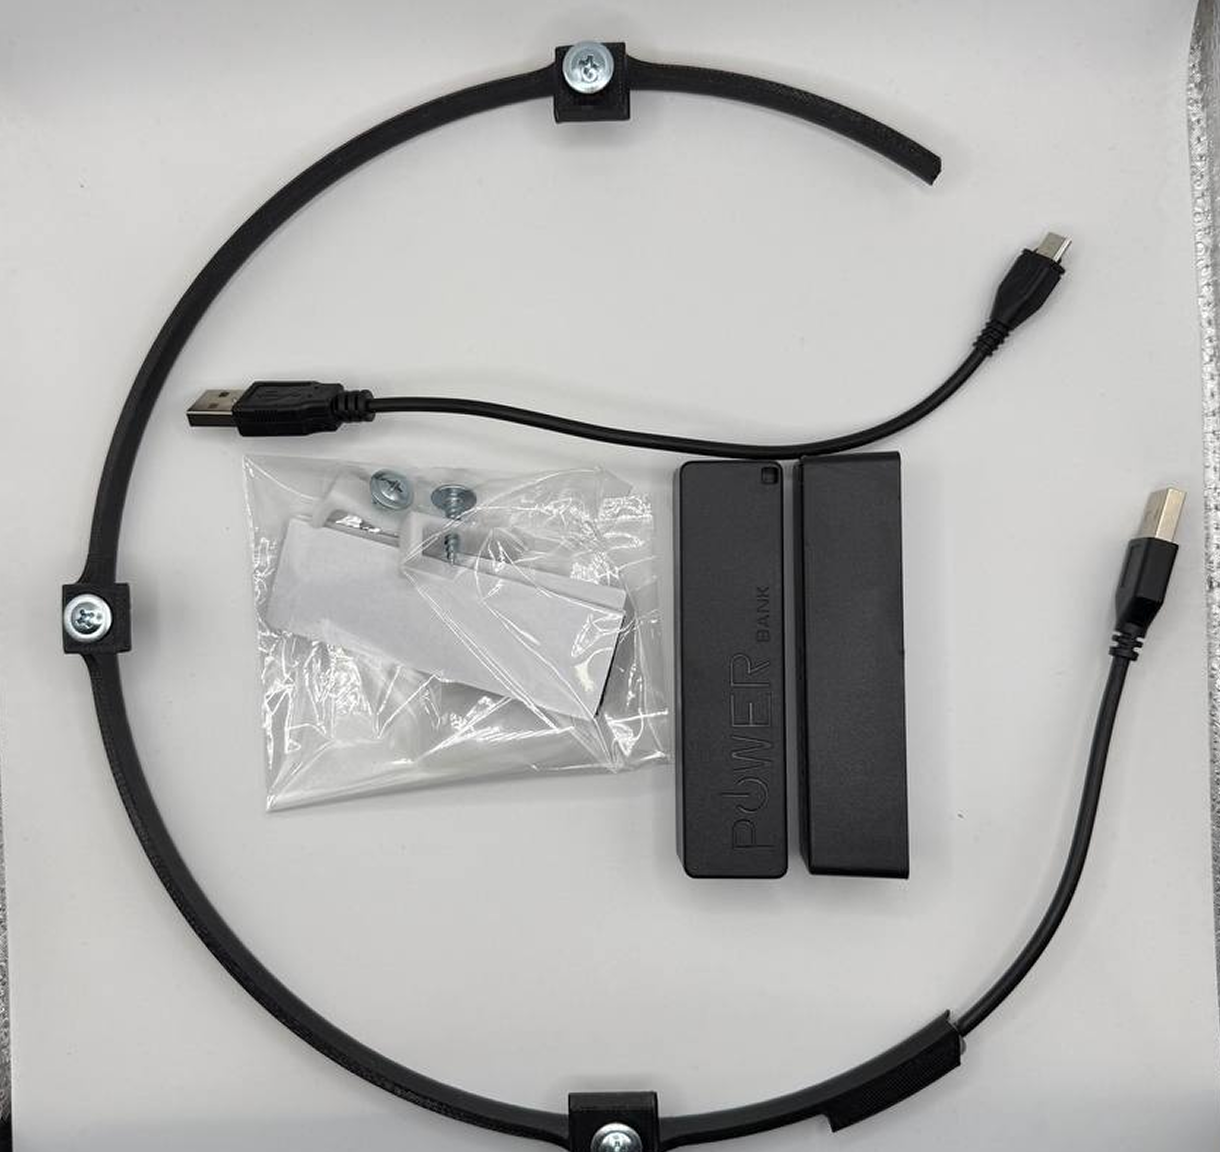
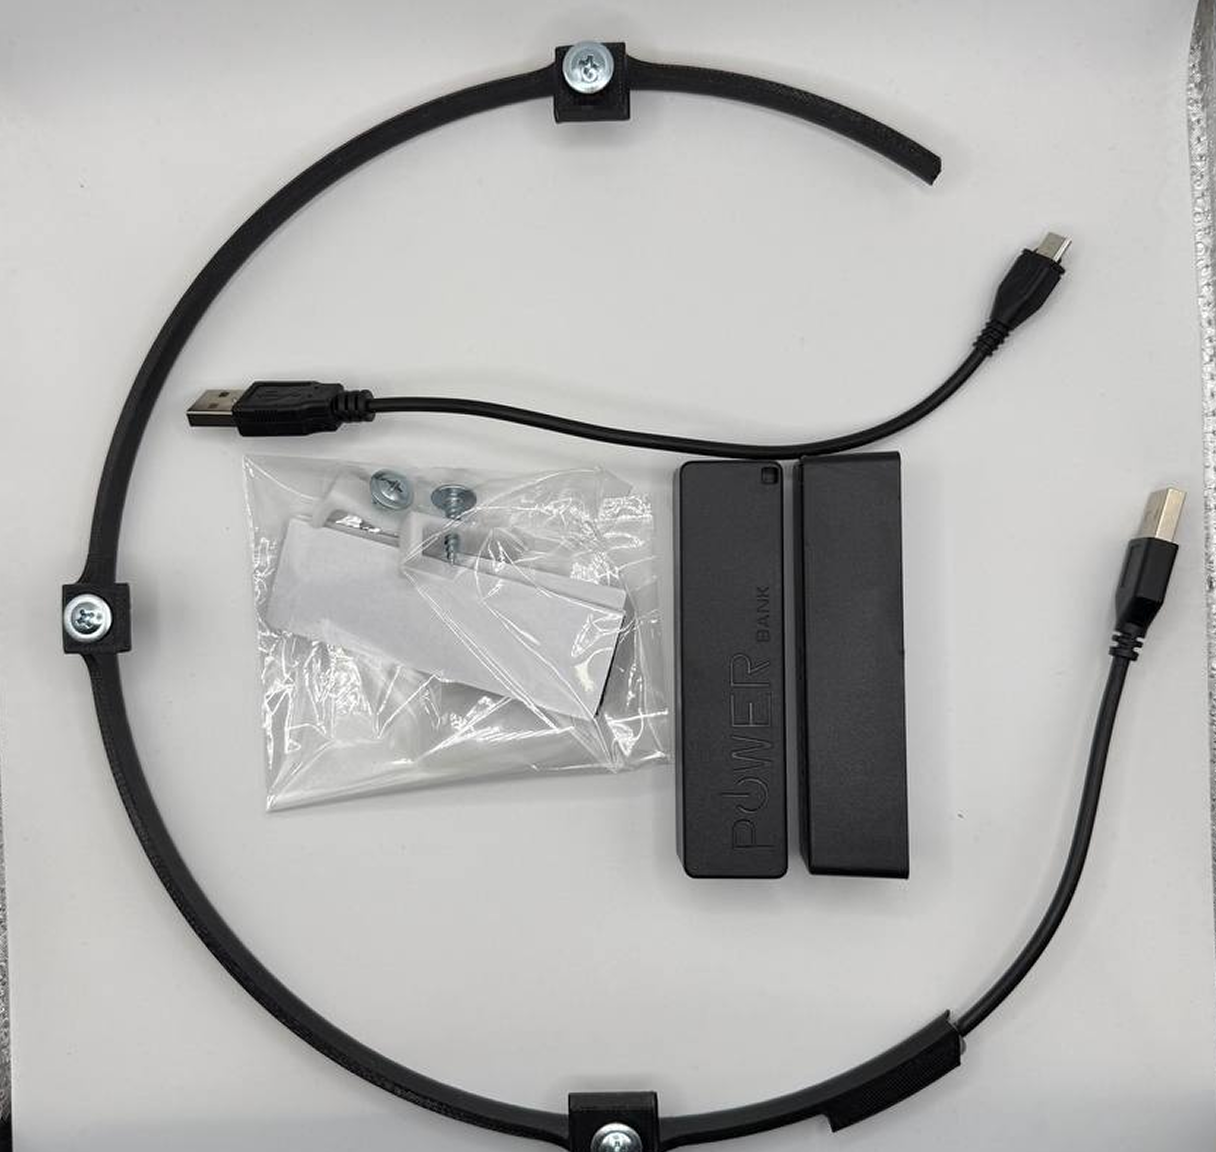
Ready main page

diff --git a/index.html b/index.html
@@ -14,7 +14,13 @@
 </head>
 
 <body>
-    <h1 class="catalog-header">katalog</h1>
+    <div class="header-box">
+        <a href="index.html" class="logo-link">
+            <img src="images/logo.png" alt="logo" class="logo-img">
+            <p class="logo-text">S-3dprints</p>
+        </a>
+        <h1 class="catalog-header">katalog</h1>
+    </div>
     <div class="divider"></div>
     <div class="category-box">
         <div class="category-item">
@@ -34,33 +40,33 @@
         </div>
 
         <div>
-            <button class="button-main-products">
-                <img src="images/trapezoidal-pad-for-sanding.png" alt="Pad trapezowy do szlifowania gładzi" class="img-main-products">
-                <h2 class="text-main-products">
-                    <span class="product-title"> Pad trapezowy do szlifowania gładzi </span>
-                    <span class="text-main-products-price">50 zl</span>
-                </h2>
-            </button>
-        </div>
-
-        <div>
-            <button class="button-main-products">
+            <a href="/products-pages/set-of-pads-for-sanding.html" class="button-main-products">
                 <img src="images/set-of-pads-for-sanding.png" alt="Zestaw padów dla szlifowania gładzi" class="img-main-products">
                 <h2 class="text-main-products">
                     <span class="product-title">Zestaw padów dla szlifowania gładzi</span>
                     <span class="text-main-products-price">95 zl</span>
                 </h2>
-            </button>
+            </a>
         </div>
 
         <div>
-            <button class="button-main-products">
+            <a href="/products-pages/trapezoidal-pad-for-sanding.html" class="button-main-products">
+                <img src="images/trapezoidal-pad-for-sanding.png" alt="Pad trapezowy do szlifowania gładzi" class="img-main-products">
+                <h2 class="text-main-products">
+                    <span class="product-title"> Pad trapezowy do szlifowania gładzi </span>
+                    <span class="text-main-products-price">50 zl</span>
+                </h2>
+            </a>
+        </div>
+
+        <div>
+            <a href="/products-pages/smoothing-sanding-pad.html" class="button-main-products">
                 <img src="images/smoothing-sanding-pad.png" alt="Zestaw padów dla szlifowania gładzi" class="img-main-products">
                 <h2 class="text-main-products">
                     <span class="product-title">Pad do szlifowania gładzi (półksiężyc )</span>
                     <span class="text-main-products-price">40 zl</span>
                 </h2>
-            </button>
+            </a>
         </div>
     </div>
 
@@ -86,33 +92,33 @@
         </div>
 
         <div>
-            <button class="button-main-products">
+            <a href="/products-pages/tile-beveling-holder.html" class="button-main-products">
                 <img src="images/tile-beveling-holder.png" alt="Uchwyt do ukosowania płytek" class="img-main-products">
                 <h2 class="text-main-products">
                     <span class="product-title">Uchwyt do ukosowania płytek</span>
                     <span class="text-main-products-price">20 zl</span>
                 </h2>
-            </button>
+            </a>
         </div>
 
         <div>
-            <button class="button-main-products">
+            <a href="/products-pages/clamp-for-removing-tiles.html" class="button-main-products">
                 <img src="images/clamp-for-removing-tiles.png" alt="Klips zacisk do ściągania płytek" class="img-main-products">
                 <h2 class="text-main-products">
                     <span class="product-title">Klips/zacisk do ściągania płytek</span>
                     <span class="text-main-products-price">30 zl</span>
                 </h2>
-            </button>
+            </a>
         </div>
 
         <div>
-            <button class="button-main-products">
+            <a href="/products-pages/smoothing-sanding-pad.html" class="button-main-products">
                 <img src="images/cat.png" alt="" class="img-main-products">
                 <h2 class="text-main-products">
                     <span class="product-title">Фінтіфлюшка номер якась там</span>
                     <span class="text-main-products-price">40 zl</span>
                 </h2>
-            </button>
+            </a>
         </div>
     </div>
 
@@ -137,42 +143,55 @@
         </div>
 
         <div>
-            <button class="button-main-products">
+            <a href="/products-pages/dust-extraction-while-drilling.html" class="button-main-products">
                 <img src="images/dust-extraction-while-drilling.png" alt="Odsysacz pyłu pod czas wiercenia" class="img-main-products">
                 <h2 class="text-main-products">
                     <span class="product-title">Odsysacz pyłu pod czas wiercenia</span>
                     <span class="text-main-products-price">40 zl</span>
                 </h2>
-            </button>
+            </a>
         </div>
 
         <div>
-            <button class="button-main-products">
+            <a href="/products-pages/professional-magnetic-spatula-holder.html" class="button-main-products">
                 <img src="images/professional-magnetic-spatula-holder.png" alt="Profesjonalny magnetyczny uchwyt na szpachelkę" class="img-main-products">
                 <h2 class="text-main-products">
-                    <span class="product-title">Prof. magnetyczny uchwyt na szpachelkę</span>
+                    <span class="product-title">Magnetyczny uchwyt na szpachelkę</span>
                     <span class="text-main-products-price">30 zl</span>
                 </h2>
-            </button>
+            </a>
         </div>
 
         <div>
-            <button class="button-main-products">
+            <a href="/products-pages/LED-for-Bosch-GTR-550-sander.html" class="button-main-products">
                 <img src="images/LED-for-Bosch-GTR-550-sander.png" alt="LED do szlifierki Bosch GTR 550" class="img-main-products">
                 <h2 class="text-main-products">
                     <span class="product-title">LED do szlifierki Bosch GTR 550</span>
                     <span class="text-main-products-price">120 zl</span>
                 </h2>
-            </button>
+            </a>
         </div>
     </div>
 
     <footer>
-        <h3>My w mediach społecznościowych</h3>
-        <img>
-        <img>
-        <img>
-        <img>
+        <h3 class="footer-main-text">My w mediach społecznościowych</h3>
+        <div class="social-media-box">
+            <a class="social-media-links" href="telegram/link">
+                <p class="social-media-links-text">Telegram</p>
+            </a>
+
+            <a class="social-media-links" href="telegram/link">
+                <p class="social-media-links-text">WhatsApp</p>
+            </a>
+
+            <a class="social-media-links" href="telegram/link">
+                <p class="social-media-links-text">Facebook</p>
+            </a>
+
+            <a class="social-media-links" href="telegram/link">
+                <p class="social-media-links-text">Instagram</p>
+            </a>
+        </div>
     </footer>
 </body>
 </html>

diff --git a/style.css b/style.css
@@ -29,16 +29,48 @@ body {
     font-family: var(--main-font);
     font-weight: 400;
     margin: 25px;
+    margin-bottom: 0;
 }
 
-.catalog-header{
+.header-box {
+    position: relative;
+    display: flex;
+    align-items: center;
+    margin-top: 20px;
+    margin-bottom: 30px;
+}
+
+
+.catalog-header {
     font-weight: 700;
     color: var(--main-color);
     font-size: 62px;
-    text-align: center;
     text-transform: uppercase;
-    margin-bottom: 20px;
-    margin-top: 20px;
+
+    margin: 0;
+
+    position: absolute;
+    left: 50%;
+    transform: translateX(-50%);
+}
+
+.logo-img{
+    max-width: 58px;
+}
+
+.logo-text{
+    font-weight: 500;
+    font-size: 25px;
+    margin-left: 15px;
+    color: var(--main-color);
+}
+
+.logo-link {
+    display: flex;
+    align-items: center;
+    text-decoration: none;
+    color: inherit; 
+    gap: 15px;
 }
 
 .divider{
@@ -99,18 +131,23 @@ body {
     max-width: 310px;
 }
 
+/*
 .bottom {
     margin-top: auto;
 }
+*/
+
 
 /*Main Page Category - category button*/
 
 .button-main-products{
-    max-width: 350px;
+    max-width: 330px;
     width: 100%;
     border: none;
     background: none;
     display: block;
+    text-decoration: none;
+    color: inherit;
     padding: 16px;
     margin-top: 10px;
 
@@ -163,13 +200,33 @@ body {
 }
 
 
-
-
-
-
 /*Footer*/
 footer {
   margin-top: auto;
   background-color: var(--main-color);
   color: white;
+}
+
+.footer-main-text{
+    font-size: 24px;
+    font-weight: 500;
+    padding-left: 10px;
+}
+
+.social-media-links{
+    text-decoration: none;
+}
+
+.social-media-links-text{
+    font-weight: 400;
+    font-size: 20px;
+    color: #ffffff;
+    text-decoration: underline;
+}
+
+.social-media-box {
+    display: flex;
+    gap: 30px; 
+    flex-wrap: wrap; 
+    padding-left: 10px;
 }

diff --git a/single-product-style.css b/single-product-style.css
@@ -1,0 +1,55 @@
+/*
+//Значення для жирності шрифту
+//Light 300
+//Regular 400
+//Medium 500
+//SemiBold 600
+//Bold 700
+//ExtraBold 800
+
+.montserrat-regular {
+  font-family: "Montserrat", sans-serif;
+  font-optical-sizing: auto;
+  font-weight: 400;
+  font-style: normal;
+}
+*/
+
+:root{
+    --main-font: "Montserrat", sans-serif;
+    --main-color: #032954
+}
+
+
+
+/*То все для слайдеру*/
+
+.product-gallery {
+  max-width: 500px;
+}
+
+.main-image img {
+  width: 100%;
+  height: auto;
+  border-radius: 10px;
+}
+
+.thumbnails {
+  display: flex;
+  gap: 10px;
+  margin-top: 10px;
+  overflow-x: auto;
+}
+
+.thumbnails img {
+  width: 80px;
+  height: 80px;
+  object-fit: cover;
+  cursor: pointer;
+  border: 2px solid transparent;
+  border-radius: 8px;
+}
+
+.thumbnails img:hover {
+  border-color: #000;
+}

diff --git a/products-pages/set-of-pads-for-sanding.html b/products-pages/set-of-pads-for-sanding.html
@@ -1,0 +1,47 @@
+<!DOCTYPE html>
+<html lang="pl">
+<head>
+    <meta charset="UTF-8">
+    <meta name="viewport" content="width=device-width, initial-scale=1.0">
+    <title>Set of pads sanding</title>
+
+    <!--Font Montserrat-->
+    <link rel="preconnect" href="https://fonts.googleapis.com">
+    <link rel="preconnect" href="https://fonts.gstatic.com" crossorigin>
+    <link href="https://fonts.googleapis.com/css2?family=Montserrat:ital,wght@0,100..900;1,100..900&display=swap" rel="stylesheet">
+
+    <link rel="stylesheet" href="../single-product-style.css">
+</head>
+
+<body>
+
+
+
+
+
+
+
+    
+<!--
+    <div class="product-gallery">
+        <div class="main-image">
+            <img id="currentImage" src="../images/set-of-pads-for-sanding.png" alt="product" />
+        </div>
+
+        <div class="thumbnails">
+            <img src="../images/set-of-pads-for-sanding.png" onclick="changeImage(this)" />
+            <img src="../images/LED-for-Bosch-GTR-550-sander.png" onclick="changeImage(this)" />
+            <img src="../images/dust-extraction-while-drilling.png" onclick="changeImage(this)" />
+        </div>
+    </div>
+-->
+
+<script>
+function changeImage(el) {
+  const main = document.getElementById("currentImage");
+  main.src = el.src;
+}
+</script>
+
+</body>
+</html>